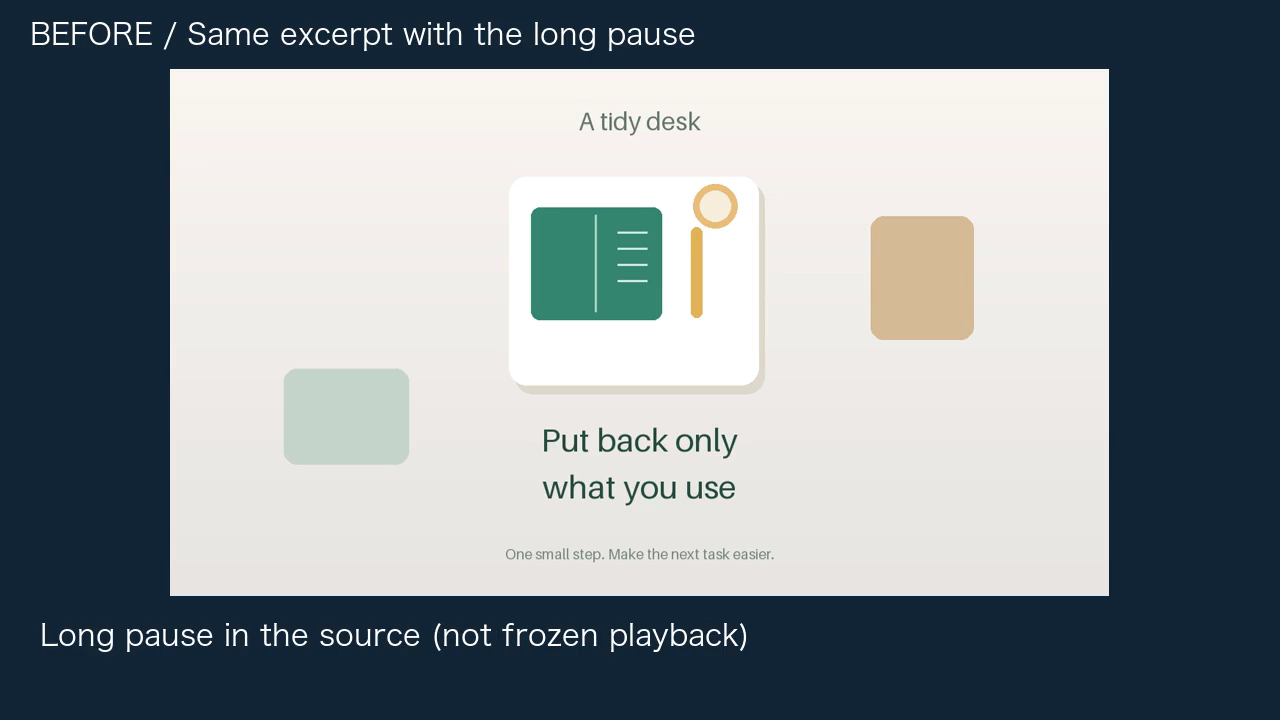
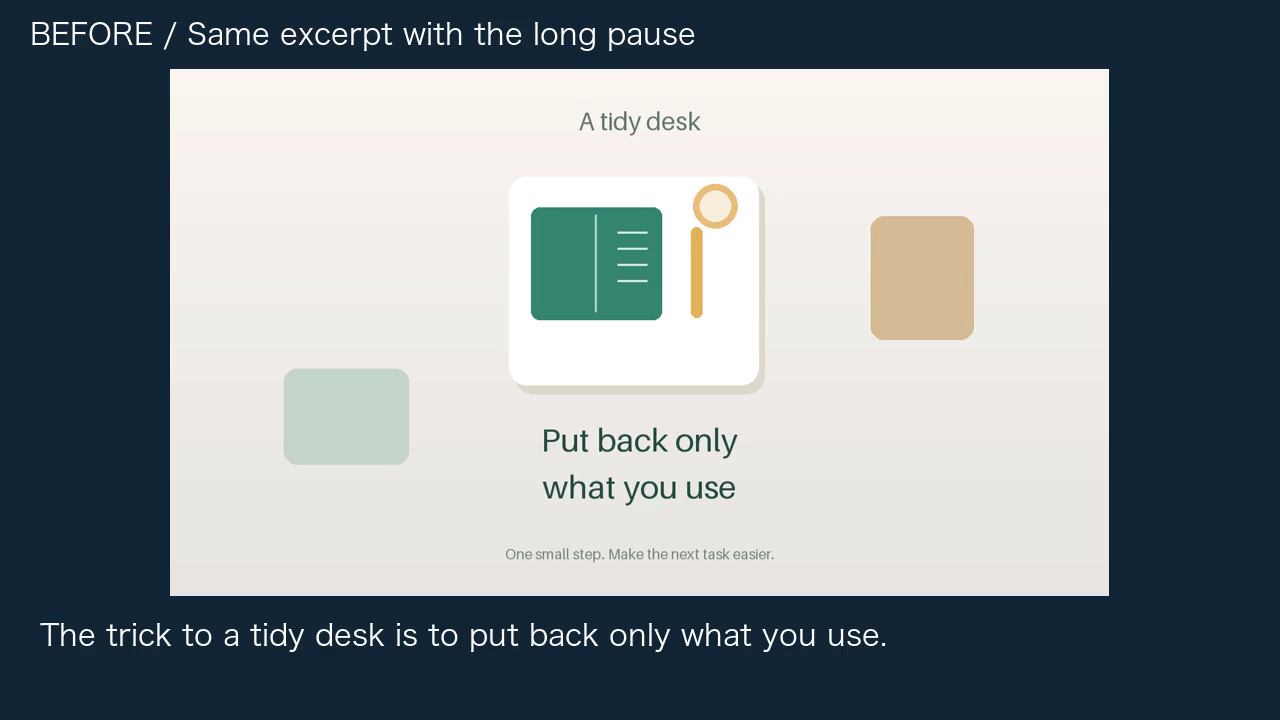
fix(demo): align pause captions with original speech recordings

Changed region(s): [[0.0312, 0.8556, 0.6875, 0.9167]]

diff --git a/scripts/build_platform_demos.py b/scripts/build_platform_demos.py
@@ -211,11 +211,12 @@ def build(sample, out, docs, font=None, youtube_session=None, tiktok_session=Non
     before_duration = excerpt_end-excerpt_start
     after_duration = before_duration-removed_gap
     script = provenance['voice']['script']
-    before_cues = [{'start':first[0]['start']-excerpt_start,'end':first[-1]['end']-excerpt_start,'text':script[0]},
-                   {'start':first[-1]['end']-excerpt_start,'end':words[split+1]['start']-excerpt_start,'text':'長い間があります（映像の停止ではありません）' if language=='ja' else 'Long pause in the source (not frozen playback)'},
-                   {'start':words[split+1]['start']-excerpt_start,'end':words[-1]['end']-excerpt_start,'text':script[1]}]
-    after_cues = [{'start':first[0]['start']-excerpt_start,'end':first[-1]['end']-excerpt_start,'text':script[0]},
-                  {'start':words[split+1]['start']-excerpt_start-removed_gap,'end':words[-1]['end']-excerpt_start-removed_gap,'text':script[1]}]
+    speech = provenance['speech_ranges_seconds']
+    before_cues = [{'start':speech[0][0]-excerpt_start,'end':speech[0][1]-excerpt_start,'text':script[0]},
+                   {'start':speech[0][1]-excerpt_start,'end':speech[1][0]-excerpt_start,'text':'長い間があります（映像の停止ではありません）' if language=='ja' else 'Long pause in the source (not frozen playback)'},
+                   {'start':speech[1][0]-excerpt_start,'end':speech[1][1]-excerpt_start,'text':script[1]}]
+    after_cues = [{'start':speech[0][0]-excerpt_start,'end':speech[0][1]-excerpt_start,'text':script[0]},
+                  {'start':speech[1][0]-excerpt_start-removed_gap,'end':speech[1][1]-excerpt_start-removed_gap,'text':script[1]}]
     segments = [
         (intro, 2, 0, True, None, ()),
         (normalized, before_duration, excerpt_start, False, content['before'], before_cues),
